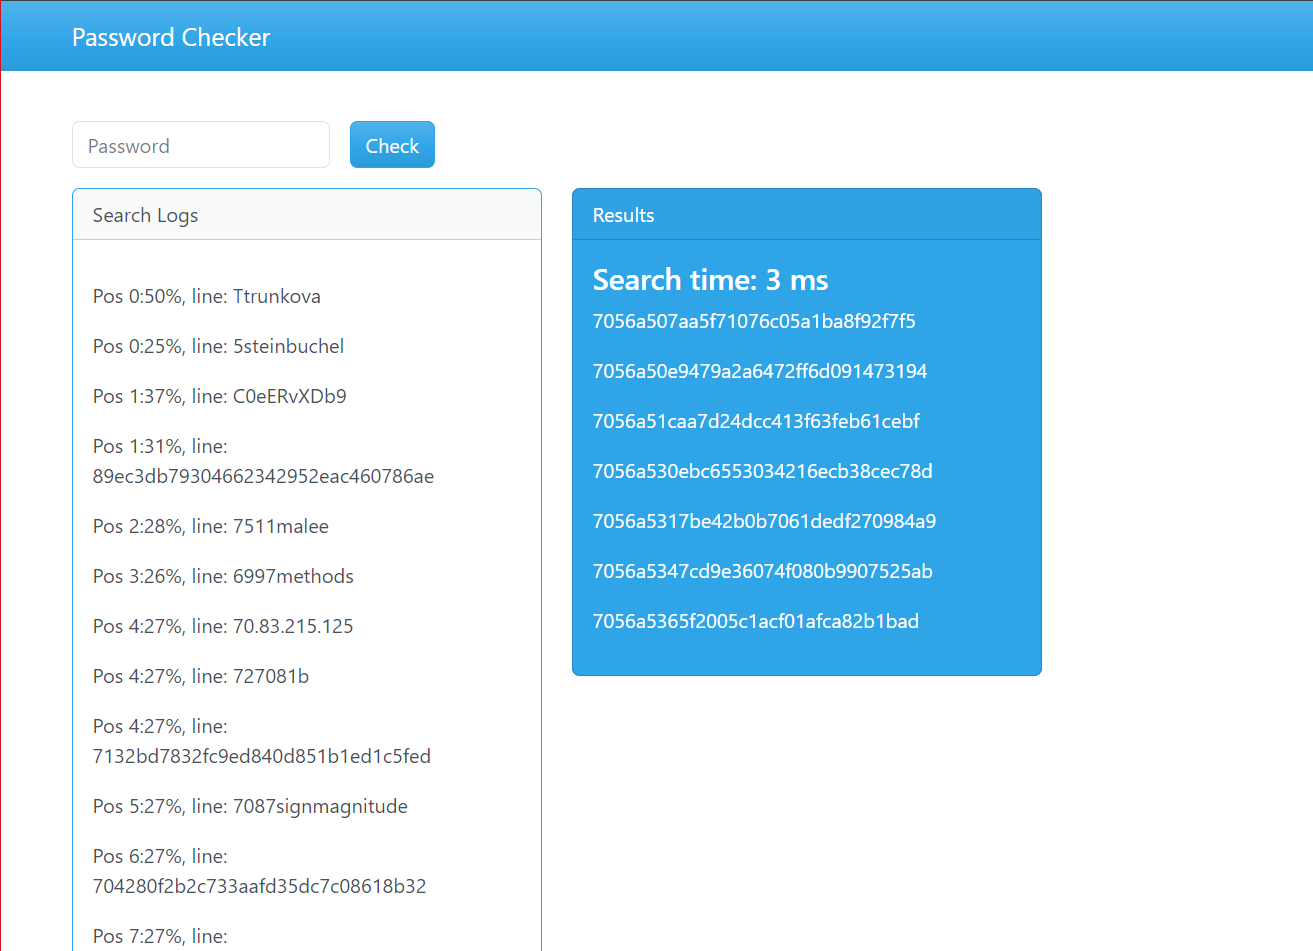
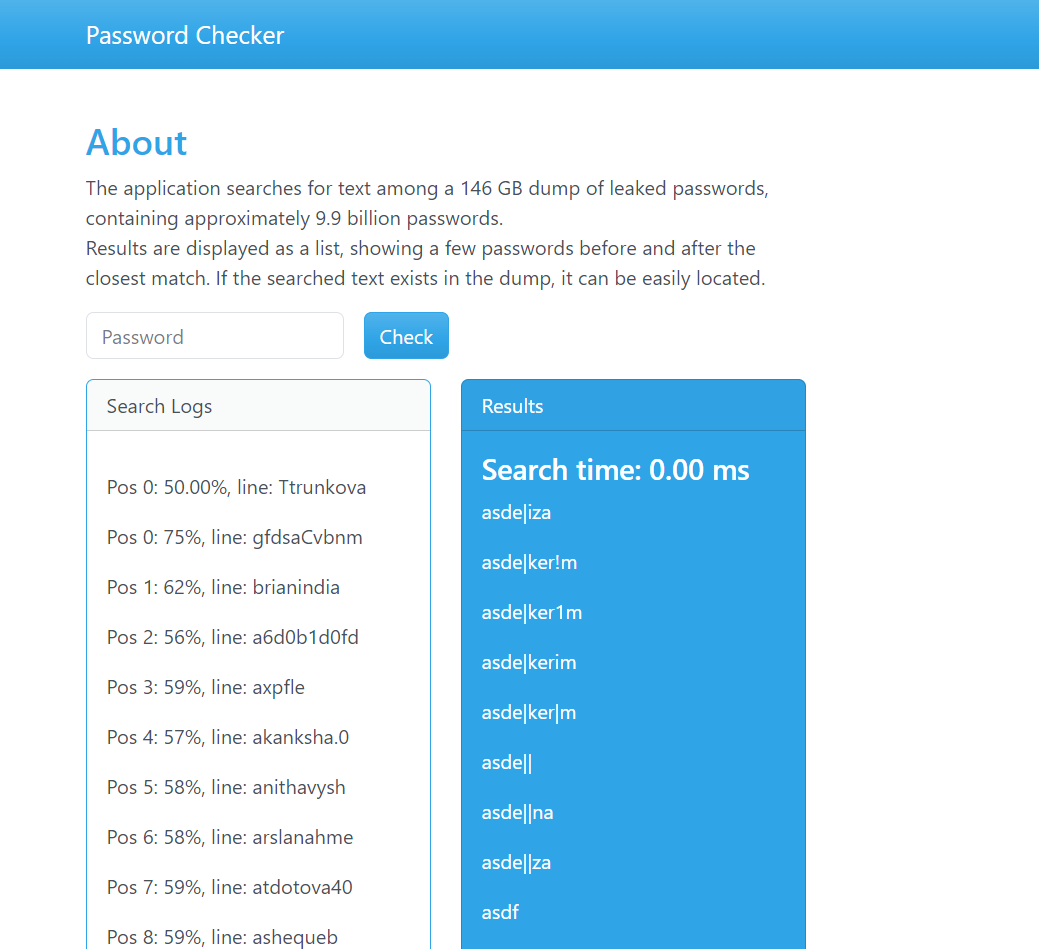
small updates in logs output, index.html

diff --git a/templates/index.html b/templates/index.html
@@ -12,53 +12,59 @@
 <div class="navbar navbar-expand-lg fixed-top bg-primary" data-bs-theme="dark">
     <div class="container">
         <a href="../" class="navbar-brand">Password Checker</a>
-        <button class="navbar-toggler" type="button" data-bs-toggle="collapse" data-bs-target="#navbarResponsive"
-                aria-controls="navbarResponsive" aria-expanded="false" aria-label="Toggle navigation">
-            <span class="navbar-toggler-icon"></span>
-        </button>
     </div>
 </div>
 
 <!-- Main Container -->
 <div class="container mt-5 pt-5">
+    <div class="row">
+        <div class="col-md-10 pb-10">
+            <h2>About</h2>
+            <p>
+                The application searches for text among a 146 GB dump of leaked passwords, containing approximately
+                9.9 billion passwords.</br> Results are displayed as a list, showing a few passwords before and after the
+                closest match. If the searched text exists in the dump, it can be easily located.
+            </p>
+
+        </div>
+    </div>
     <form class="row g-3" method="POST"
     ">
     <div class="col-auto">
         <label for="inputPassword2" class="visually-hidden">Password</label>
-        <input type="text" name="password" class="form-control" id="inputPassword2" autocomplete = "off"
+        <input type="text" name="password" class="form-control" id="inputPassword2" autocomplete="off"
                placeholder="Password" required style="text-security:disc; -webkit-text-security:disc;">
     </div>
     <div class=" col-auto">
         <button type="submit" class="btn btn-primary mb-3">Check</button>
     </div>
     </form>
-
     {% if lines %}
-        <div class="row">
-            <div class="col-md-5">
-                <div class="card border-primary mb-3" style="max-width: 30rem;">
-                    <div class="card-header">Search Logs</div>
-                    <div class="card-body">
-                        <p class="card-text">
-                            {% for line in lines %}
-                        <p>{{ line }}</p>
-                        {% endfor %}
-                        </p>
-                    </div>
-                </div>
-            </div>
-            <div class="col-md-5">
-                <div class="card text-white bg-primary mb-3" style="max-width: 30rem;">
-                    <div class="card-header">Results</div>
-                    <div class="card-body">
-                        <h4 class="card-title">{{ search_time }}</h4>
-                        {% for result in results %}
-                        <p>{{ result }}</p>
-                        {% endfor %}
-                    </div>
+    <div class="row">
+        <div class="col-md-5">
+            <div class="card border-primary mb-3" style="max-width: 30rem;">
+                <div class="card-header">Search Logs</div>
+                <div class="card-body">
+                    <p class="card-text">
+                        {% for line in lines %}
+                    <p>{{ line }}</p>
+                    {% endfor %}
+                    </p>
                 </div>
             </div>
         </div>
+        <div class="col-md-5">
+            <div class="card text-white bg-primary mb-3" style="max-width: 30rem;">
+                <div class="card-header">Results</div>
+                <div class="card-body">
+                    <h4 class="card-title">{{ search_time }}</h4>
+                    {% for result in results %}
+                    <p>{{ result }}</p>
+                    {% endfor %}
+                </div>
+            </div>
+        </div>
+    </div>
     {% endif %}
 
 </div>

diff --git a/search.py b/search.py
@@ -1,3 +1,16 @@
+"""
+File Name: search.py
+Description: Module contains one function to go through the big (hundreds of GB) TXT file with sorted lines and
+             does search for specific string (password)
+
+Created by: Vitaliy Osidach
+Date Created: 2024.07.16
+
+Version: 1.0
+
+Usage:
+    search('some_text')
+"""
 import time
 
 
@@ -5,7 +18,7 @@ def search(st: str) -> tuple:
     start_time = time.time()
     res = []
     res.append([])
-    with open(r"c:\Users\kylik\Downloads\rockyou2024\rockyou2024.txt", mode='r', encoding="utf-8",
+    with open("rockyou2024.txt", mode='r', encoding="utf-8",
               errors='ignore') as f:
         start = 0
         f.seek(0, 2)  # os.SEEK_END = 2
@@ -15,40 +28,36 @@ def search(st: str) -> tuple:
         f.seek(pos)
         f.readline()
         line = f.readline().strip()
-        res[0].append(f'Pos {i}:{pos * 100 // max}%, line: {line}')
+        res[0].append(f'Pos {i}: {pos * 100 / max:.2f}%, line: {line:.10}')
         while (end - start) > 300:
             if st == line:
                 start, end = pos - 100, pos + 100
                 res[0].append(f'password is found')
                 break
             elif st > line:
-                start, pos, end = pos - 100, (pos + end) // 2, end
+                start, pos, end = pos - 100, (pos + end) // 2, end # 100 - edge effect, should be optimized
                 f.seek(pos)
                 f.readline()
                 line = f.readline().strip()
-                res[0].append(f'Pos {i}:{pos * 100 // max}%, line: {line}')
+                res[0].append(f'Pos {i}: {pos * 100 // max}%, line: {line:.10}')
             else:
-                start, pos, end = start - 100, (pos + start) // 2, pos + 100
+                start, pos, end = start - 100, (pos + start) // 2, pos + 100# 100 - edge effect, should be optimized
                 f.seek(pos)
                 f.readline()
                 line = f.readline().strip()
-                res[0].append(f'Pos {i}:{pos * 100 // max}%, line: {line}')
-                i += 1
+                res[0].append(f'Pos {i}: {pos * 100 // max}%, line: {line:.10}')
+            i += 1
         f.seek(start)
         f.readline()
         res.append([])
         while start < end - 20:
             res[1].append(f.readline().strip())
             start = f.tell()
-        t = str((time.time() - start_time) * 1000)
-        print(t)
-        t = t[:t.find('.')] + t[t.find('.'):t.find('.') + 4] # 234234.234234
-        print(t)
-    return res[0], res[1], f'Search time: {int((time.time() - start_time) * 1000)} ms'
+    return res[0], res[1], f'Search time: {(time.time() - start_time) * 1000:.2f} ms'
 
 
 if __name__ == '__main__':
-    print(search('l0pihara'))
+    print(search('asdf'))
 
 # START -------*-------- POS ------------- END
 # START ------POS------- END -------------

diff --git a/flask_main.py b/flask_main.py
@@ -1,3 +1,17 @@
+"""
+File Name: search.py
+Description: Flask application allows to go through the big (hundreds of GB) TXT file with sorted lines and
+             does search for specific string (password)
+
+Created by: Vitaliy Osidach
+Date Created: 2024.07.16
+
+Version: 1.0
+
+Usage:
+    run
+    python3 flask_main.py
+"""
 from flask import Flask, render_template, request
 import search
 
